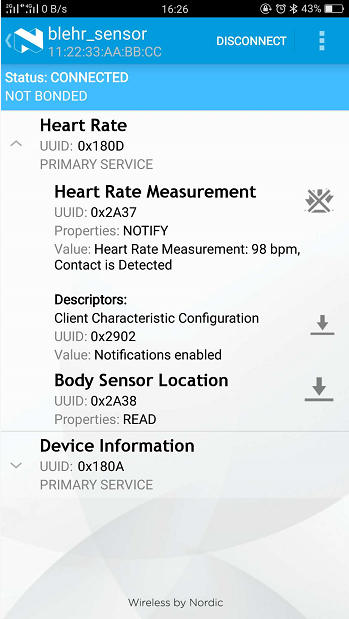
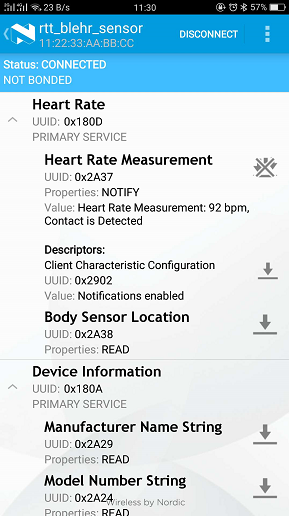
更新README说明文档

diff --git a/README.md b/README.md
@@ -2,8 +2,20 @@
 
 ## 简介
 
-该 BSP 基于 Nordic 公司的 nrf52832 MCU，提供 RT-Thread bluetooth 协议栈的相关功能。
+该 BSP 以 nrf52832 MCU 作为为平台，提供 NimBLE Bluetooth Stack 在 RT-Thread 上的基本功能。
 
+所使用的协议栈为 NimBLE 在 RT-Thread上的移植版本，提供完整的 Host 及 Controller 协议栈支持，主要特性如下：
+
+- 支持 BLE5.0 标准
+- 2Msym / s PHY 吞吐量
+- 安全管理(SM)，支持 LE Legacy Pairing,  LE Secure Connections, Transport Specific Key Distribution
+- 配置灵活，最多支持 32 个并发连接
+- 提供常用的 Profile 和 Service 支持
+- 清晰的 HCI 接口抽象
+- 支持 BLE Mesh(PB-GATT and PB-ADV provisioning, Relay support, GATT Proxy ....)
+- 最小 4.5 KB RAM，69KB Flash 的资源占用
+
+更多关于 NimBLE Stack 的介绍请参考 ``http://mynewt.apache.org/latest/network/docs/index.html``。
 
 ## 外设支持
 
@@ -25,7 +37,7 @@ bluetooth 协议栈当前是以软件包的形式发布，因此如果需使用 
 
 - 拉取 BLE 软件包
 
-打开 ENV 工具，然后输入 ``pkgs --update``，会自动从 github 拉取 BLE 协议栈。
+打开 ENV 工具，首先输入``pkgs --upgrade``，更新软件包索引，接着输入 ``pkgs --update``，会自动从 github 拉取 BLE 协议栈。
 
 - 编译工程
 
@@ -60,13 +72,13 @@ msh />ble_hr
 msh />
 ```
 
-此时手机打开 `nRF Master Control Panel` APP，能够扫描到名为 `ble_sensor` 的设备，连接之后，模拟的 Heart rate 示例开始运行。现象如下：
+此时手机打开 `nRF Master Control Panel` APP，能够扫描到名为 `rtt_blehr_sensor` 的设备，连接之后，模拟的 Heart rate 示例开始运行。现象如下：
 
 ![heart_rate](docs/figures/heart_rate.png)
 
 ## 注意事项
 
 - 该BSP UART默认使用 TX--->6;RX--->8 引脚，可根据板载设计自行修改；
-- RT-Ththread bluetooth 协议栈移植自开源方案 Nimble，相关介绍及 API 说明可参考``http://mynewt.apache.org/latest/network/docs/index.html``。
+- 该协议栈移植自 Apache 开源方案 Nimble，相关介绍及 API 说明可参考``http://mynewt.apache.org/latest/network/docs/index.html``。
 
 
